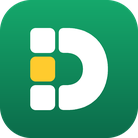
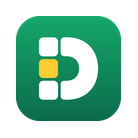
Instaladores: Abrir com do Windows, assinatura do .app e testes do Linux

diff --git a/scripts/installer_art.py b/scripts/installer_art.py
@@ -81,7 +81,11 @@ def main():
     for w, h in [(164, 314), (246, 459), (328, 604), (410, 797)]:
         wizard(w * 2, h * 2, fonts).resize((w, h), Image.LANCZOS).save(OUT / f"lateral-{w}.png", optimize=True)
     for s in (55, 83, 110, 138):
-        draw_icon(s).save(OUT / f"topo-{s}.png", optimize=True)
+        # Com uma folga: o instalador encosta a imagem no canto da janela.
+        im = Image.new("RGBA", (s, s), (0, 0, 0, 0))
+        n = round(s * 0.76)
+        im.paste(draw_icon(n), ((s - n) // 2, (s - n) // 2))
+        im.save(OUT / f"topo-{s}.png", optimize=True)
     for scale, name in ((1, "dmg.png"), (2, "dmg@2x.png")):
         im = dmg(scale * 2, fonts).resize((660 * scale, 420 * scale), Image.LANCZOS)
         im.save(OUT / name, optimize=True, dpi=(72 * scale, 72 * scale))

diff --git a/scripts/package/dmg.py b/scripts/package/dmg.py
@@ -9,7 +9,7 @@ format = "ULFO"
 filesystem = "HFS+"
 files = [app]
 symlinks = {"Aplicativos": "/Applications"}
-hide_extensions = [os.path.basename(app)]
+# Sem `hide_extensions`: o atributo do Finder no .app invalidaria a assinatura.
 icon = defines["icon"]
 # O dmgbuild junta o `dmg@2x.png` ao lado para as telas Retina.
 background = os.path.join(art, "dmg.png")
